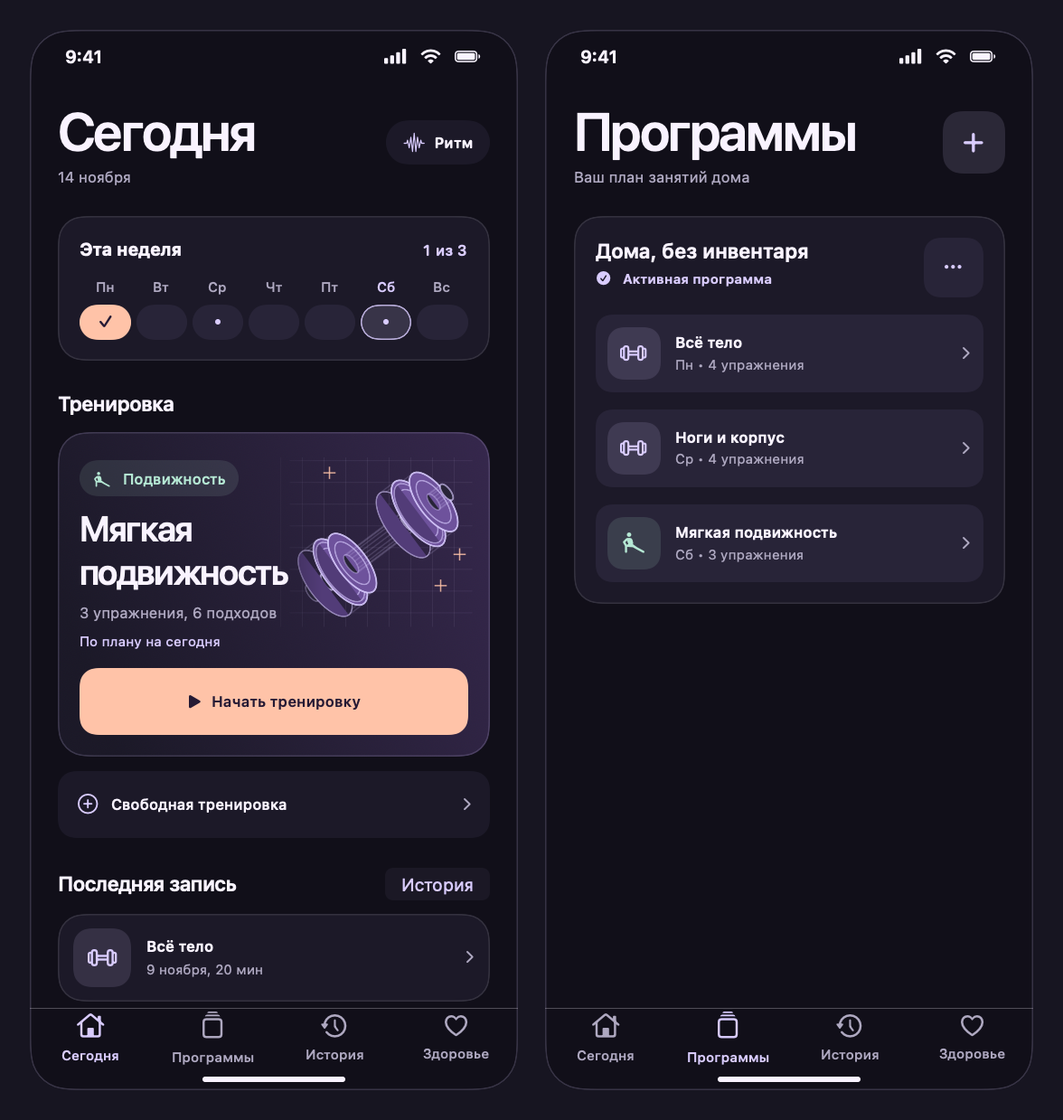
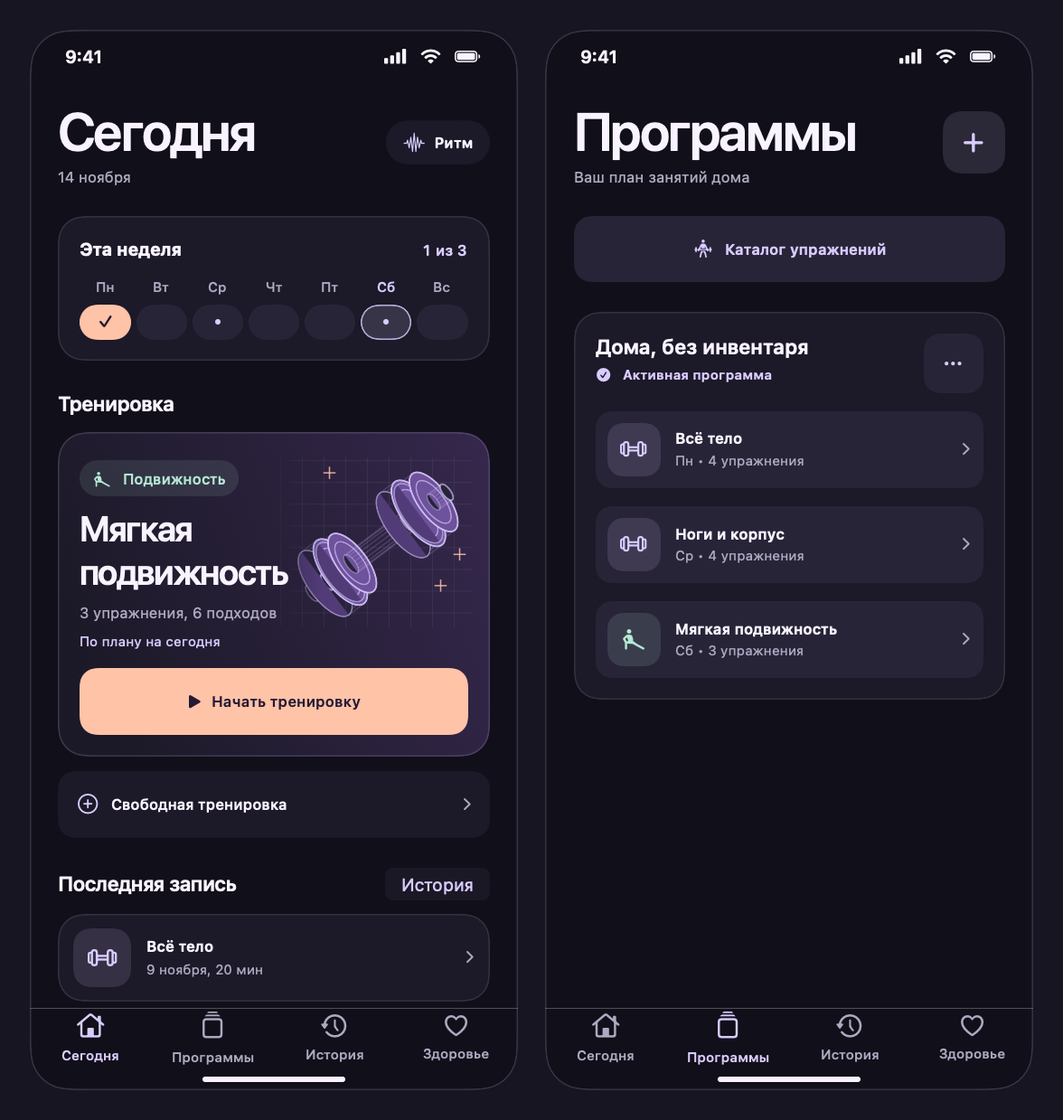
Document personal installation and cover progress and Watch sync regressions

diff --git a/Tests/ProgressTests.swift b/Tests/ProgressTests.swift
@@ -1,0 +1,79 @@
+import Foundation
+import Testing
+@testable import RitmCore
+
+struct ProgressTests {
+    @Test func combinesLegacyAndCatalogExerciseSetsWithoutMixingUnits() throws {
+        let start = Date(timeIntervalSince1970: 1_800_000_000)
+        let legacy = ExercisePlan(name: " ТЯГА  ГАНТЕЛЕЙ ", sets: 2, target: 10, weight: 6)
+        let catalog = ExercisePlan(name: "Тяга в наклоне", sets: 1, target: 8, weight: 10, catalogID: "dumbbell-row")
+        let timed = ExercisePlan(name: catalog.name, unit: .seconds, sets: 1, target: 35, catalogID: catalog.catalogID)
+        var first = ActiveWorkout(routine: Routine(name: "Силовая", exercises: [legacy]), now: start)
+        first.exercises[0].sets[0].complete = true
+        var second = ActiveWorkout(routine: Routine(name: "Силовая", exercises: [catalog, timed]), now: start.addingTimeInterval(3600))
+        second.exercises[0].sets[0].complete = true
+        second.exercises[1].sets[0].complete = true
+        let records = [WorkoutRecord(second, endedAt: second.startedAt.addingTimeInterval(90)), WorkoutRecord(first, endedAt: start.addingTimeInterval(60))]
+
+        let result = ExerciseProgress.summarize(records)
+        let reps = try #require(result.first { $0.unit == .repetitions })
+        let seconds = try #require(result.first { $0.unit == .seconds })
+        #expect(result.count == 2)
+        #expect(reps.points.map(\.total) == [10, 8])
+        #expect(reps.points.map(\.volume) == [60, 80])
+        #expect(reps.bestWeight == 10)
+        #expect(seconds.points.map(\.total) == [35])
+        #expect(seconds.points.map(\.volume) == [0])
+    }
+
+    @Test @MainActor func keepsWatchMarksIdempotentAndClipsDelayedPulseToTheSession() throws {
+        let directory = FileManager.default.temporaryDirectory.appending(path: "RitmWatchTests-\(UUID())")
+        defer { try? FileManager.default.removeItem(at: directory) }
+        let file = directory.appending(path: "journal.json")
+        let store = JournalStore(url: file)
+        let now = Date.now.addingTimeInterval(-120)
+        let routine = try #require(store.journal.activeProgram?.routines.first)
+        #expect(store.change { $0.healthEnabled = true })
+        #expect(store.start(routine, at: now))
+        let snapshot = try #require(store.watchSnapshot)
+        let next = try #require(snapshot.next)
+        let mark = WatchEvent.mark(workout: snapshot.workoutID, exercise: next.exerciseID, set: next.setID)
+        #expect(store.receiveWatch(mark))
+        #expect(store.receiveWatch(mark))
+        #expect(store.journal.activeWorkout?.marked == 1)
+        let finished = try #require(store.finish(at: now.addingTimeInterval(60)))
+        #expect(!store.receiveWatch(mark))
+        let valid = PulsePoint(date: now.addingTimeInterval(15), bpm: 110)
+        let late = PulsePoint(date: now.addingTimeInterval(90), bpm: 170)
+        #expect(store.receiveWatch(.pulse(workout: finished.id, points: [valid, valid, late])))
+        #expect(try JournalFile.load(file).records.first?.pulse == [valid])
+    }
+
+    @Test @MainActor func importsStandaloneWatchWorkoutOnceWithoutRequestingAnotherHealthExport() throws {
+        let directory = FileManager.default.temporaryDirectory.appending(path: "RitmWatchImportTests-\(UUID())")
+        defer { try? FileManager.default.removeItem(at: directory) }
+        let store = JournalStore(url: directory.appending(path: "journal.json"))
+        let start = Date.now.addingTimeInterval(-120)
+        let activity = WatchActivity(id: UUID(), kind: "strength", startedAt: start, endedAt: start.addingTimeInterval(60), pulse: [])
+        #expect(store.receiveWatch(.finished(activity)))
+        #expect(store.receiveWatch(.finished(activity)))
+        #expect(store.journal.records.count == 1)
+        #expect(store.journal.records.first?.fromWatch == true)
+        #expect(store.journal.records.first?.awaitsHealthExport == false)
+    }
+
+    @Test func widgetRollsOverOnMondayAndSkipsACompletedRoutine() throws {
+        var calendar = Calendar(identifier: .gregorian)
+        calendar.timeZone = try #require(TimeZone(identifier: "Europe/Moscow"))
+        let monday = try #require(calendar.date(from: DateComponents(year: 2026, month: 11, day: 16, hour: 9)))
+        let sunday = monday.addingTimeInterval(-12 * 3600)
+        let first = UUID()
+        let second = UUID()
+        let summary = WidgetSnapshot(activeWorkout: nil, completedSets: 0, totalSets: 0,
+            routines: [.init(id: first, title: "Корпус", weekday: 2), .init(id: second, title: "Ноги", weekday: nil)],
+            completions: [.init(routineID: nil, date: sunday), .init(routineID: first, date: monday)], weeklyGoal: 3)
+        #expect(summary.week(at: sunday, calendar: calendar) == [0, 0, 0, 0, 0, 0, 1])
+        #expect(summary.week(at: monday, calendar: calendar) == [1, 0, 0, 0, 0, 0, 0])
+        #expect(summary.suggestion(at: monday, calendar: calendar) == "Ноги")
+    }
+}

diff --git a/Preview/Render.swift b/Preview/Render.swift
@@ -23,17 +23,38 @@ import SwiftUI
                 ProgramsView(store: store, start: { _ in })
             }
         }
-        .padding(22)
-        .background(Color(red: 0.09, green: 0.082, blue: 0.13))
-        .tint(Ink.lilac).foregroundStyle(Ink.primary)
-        .environment(\.colorScheme, .dark)
-        let renderer = ImageRenderer(content: layout)
+        let output = URL(fileURLWithPath: CommandLine.arguments[1])
+        try write(layout, to: output)
+        if CommandLine.arguments.count > 2, let entry = ExerciseCatalog.all.first(where: { $0.id == "dumbbell-row" }) {
+            let values = [89, 94, 107, 118, 120, 112, 108, 126, 131, 120, 111, 106]
+            let points = values.enumerated().map { index, bpm in
+                PulsePoint(date: now.addingTimeInterval(Double(index) * 30), bpm: bpm)
+            }
+            let detail = HStack(spacing: 20) {
+                preview(tab: "Программы") { ExerciseDetailView(entry: entry, select: {}) }
+                preview(tab: "История") {
+                    Page {
+                        PageHeader(title: "Всё тело", caption: "История тренировки") { IconBadge(icon: "dumbbell") }
+                        PulsePanel(points: points)
+                    }
+                }
+            }
+            try write(detail, to: URL(fileURLWithPath: CommandLine.arguments[2]))
+        }
+    }
+
+    @MainActor private static func write<V: View>(_ layout: V, to output: URL) throws {
+        let styled = layout.padding(22)
+            .background(Color(red: 0.09, green: 0.082, blue: 0.13))
+            .tint(Ink.lilac).foregroundStyle(Ink.primary)
+            .environment(\.colorScheme, .dark)
+        let renderer = ImageRenderer(content: styled)
         renderer.scale = 1.5
         guard let image = renderer.nsImage, let tiff = image.tiffRepresentation,
               let bitmap = NSBitmapImageRep(data: tiff), let png = bitmap.representation(using: .png, properties: [:]) else {
             throw CocoaError(.fileWriteUnknown)
         }
-        try png.write(to: URL(fileURLWithPath: CommandLine.arguments[1]))
+        try png.write(to: output)
     }
 
     @MainActor private static func preview<Content: View>(tab: String, @ViewBuilder content: () -> Content) -> some View {

diff --git a/README.md b/README.md
@@ -1,31 +1,35 @@
 # Ритм
 
-«Ритм» — личный журнал домашних тренировок для iPhone (iOS 17 и новее). Интерфейс на русском, аккаунт для работы с журналом не нужен.
+Локальный журнал домашних тренировок на русском для iPhone с iOS 17 и Apple Watch с watchOS 10. Для журнала не требуется отдельный аккаунт.
 
-- **Сегодня:** тренировка из активной программы, быстрый старт свободной тренировки и недельная цель.
-- **Программы:** готовый пример без инвентаря и конструктор своих программ. У тренировки можно выбрать день недели; у упражнения — число подходов, повторы или секунды, вес и паузу отдыха.
-- **Тренировка:** отмечайте подходы и меняйте фактические повторы, время или вес. После подхода запускается таймер отдыха. Если свернуть или закрыть приложение, черновик с отметками останется.
-- **История:** подробно показывает выполненные подходы и заметки, с графиком за последние семь дней.
-- **Здоровье** показывает шаги и активные калории за сегодня. С разрешения «Ритм» автоматически отправляет завершённые тренировки. Если отправка прервалась, «Ритм» попробует снова при следующем открытии. Из истории можно отправить тренировку вручную.
+- **Сегодня** показывает тренировку из активной программы и недельную цель. Можно начать свободную тренировку и добавлять упражнения на ходу.
+- **Программы** содержат редактор занятий, расписание по дням и каталог из 35 упражнений. В каталоге есть поиск, фильтры по мышцам и инвентарю, техника и схема мышц спереди и сзади.
+- **Тренировка** сохраняет подходы, повторы или секунды, рабочий вес и заметки. Таймер отдыха запускается после подхода. Черновик остаётся на устройстве после закрытия приложения.
+- **История → Прогресс** показывает динамику повторов, времени, максимального рабочего веса и объёма по упражнениям. Отдельная вкладка показывает вес тела из Apple «Здоровья» за 30, 90 или 365 дней.
+- **Apple Watch** показывают следующий подход и таймер отдыха в начатой на iPhone тренировке. Можно отметить подход и включить живой пульс на часах. Если начать тренировку прямо с часов, она сохранится в Apple «Здоровье» и появится в журнале iPhone после синхронизации.
+- **Виджеты iPhone** показывают ближайшую или текущую тренировку и недельную цель. Нажатие открывает соответствующий экран «Ритма».
 
-Программы, черновик и история лежат в локальном файле в каталоге приложения. Он исключён из резервной копии iOS; при удалении приложения записи «Ритма» будут потеряны. Данные Apple «Здоровья» приложение не копирует в журнал, а показывает из HealthKit по запросу. Отправленные в «Здоровье» тренировки можно удалить там отдельно.
+![Каталог мышц и график пульса на демонстрационных данных](Preview/Каталог%20и%20пульс.png)
 
-## Как установить на свой iPhone
+## Локальные данные и Apple «Здоровье»
 
-1. Установите [Xcode](https://developer.apple.com/xcode/) и поддержку платформы iOS. Откройте `Ritm.xcodeproj`.
-2. В **Xcode → Settings → Apple Accounts** добавьте свой Apple Account. Выберите проект **Ritm → TARGETS → Ritm → Signing & Capabilities**, включите **Automatically manage signing** и в **Team** выберите свою команду. Если идентификатор `personal.ritm.workouts` уже занят, задайте свой. После установки оставьте тот же идентификатор, чтобы обновления сохранили журнал.
-3. Подключите iPhone, разблокируйте его и при необходимости включите [режим разработчика](https://developer.apple.com/documentation/xcode/enabling-developer-mode-on-a-device). В верхней панели выберите схему **Ritm**, свой iPhone и нажмите **Run** (`⌘R`). [Инструкция Apple](https://developer.apple.com/documentation/xcode/building-and-running-an-app) подробно показывает подключение и подпись.
-4. Для обмена откройте **Здоровье → Подключить «Здоровье»** в самом «Ритме» и выберите разрешения в системном окне. Поменять их можно в Apple «Здоровье» через профиль → **Конфиденциальность → Приложения → Ритм**. [Инструкция Apple по управлению доступом](https://support.apple.com/en-us/108779).
+Программы и история хранятся на устройстве. Файл журнала исключён из резервной копии iOS. Установка поверх существующей версии с тем же идентификатором и командой сохраняет журнал. Удаление приложения удаляет его локальные записи.
 
-Если при первом запуске iPhone сообщает о недоверенном разработчике, откройте **Настройки → Основные → VPN и управление устройством** и подтвердите доверие своему аккаунту в разделе приложений разработчика. Следуйте подсказкам iPhone, если он предложит перезагрузку.
+Интеграция опциональна. iPhone читает шаги, активную энергию, вес тела и пульс. Замеры пульса за время отмеченной тренировки сохраняются вместе с ней. «Ритм» показывает график, среднее, минимум и максимум по доступным замерам. Для живого пульса начните занятие на iPhone, затем откройте «Ритм» на часах и нажмите «Измерять пульс». После отключения обмена приложение перестаёт читать и отправлять данные. Уже сохранённые тренировки можно удалить отдельно в «Ритме» и Apple «Здоровье».
 
-Профиль подписи бесплатной **Personal Team** действует семь дней. Чтобы продлить работу приложения, снова подключите iPhone и нажмите **Run** в Xcode. Устанавливайте обновление поверх текущей версии с тем же идентификатором и командой, чтобы сохранить журнал. [Условия Personal Team](https://developer.apple.com/help/account/basics/about-your-developer-account).
+Виджеты получают из общего локального контейнера только расписание и счётчики тренировок и подходов. Вес тела и пульс в контейнер виджетов не записываются.
 
-Если Xcode не выдаёт профиль с HealthKit для вашей команды, схема **Ritm Offline** запускает тот же журнал без обращения к HealthKit. Собирайте обе схемы с одинаковым идентификатором и командой, чтобы сохранить локальные данные при обновлении.
+## Личная установка
+
+1. Установите [Xcode](https://developer.apple.com/xcode/) с поддержкой iOS и watchOS и откройте `Ritm.xcodeproj`.
+2. Добавьте Apple Account в **Xcode → Settings → Apple Accounts**. Включите автоматическую подпись и выберите одну команду для целей **Ritm**, **RitmWatch** и **RitmWidgets**. Можно указать `DEVELOPMENT_TEAM` в локальном файле `Config/Local.xcconfig`, который исключён из Git. Если нужен свой идентификатор, задайте там `RITM_BUNDLE_ID`: идентификаторы часов, виджета и общей группы строятся на его основе.
+3. Подключите разблокированный iPhone, включите [режим разработчика](https://developer.apple.com/documentation/xcode/enabling-developer-mode-on-a-device) и запустите схему **Ritm**. Установите приложение для часов через приложение Watch на iPhone или запустите схему **RitmWatch** из Xcode на сопряжённых часах. При запросе iPhone подтвердите доверие собственной подписи в **Настройки → Основные → VPN и управление устройством**.
+4. Откройте в «Ритме» **Здоровье → Подключить «Здоровье»**. После обновления используйте **Разрешить вес и пульс**. Позже разрешения можно изменить в Apple «Здоровье» через профиль и список приложений. [Управление доступом](https://support.apple.com/en-us/108779)
+
+Профиль бесплатной **Personal Team** действует семь дней. Для продления снова запустите **Ritm** через Xcode поверх установленного приложения. [Условия Personal Team](https://developer.apple.com/help/account/basics/about-your-developer-account)
 
 ## Проверка
 
-- `./Tests/run.sh` — сценарии сохранения и восстановления черновика, записи завершённой тренировки, смены программы и границы недели.
-- `./Preview/render.sh` — превью двух экранов в `Preview/Ритм.png`. Разметка отрисована SwiftUI на Mac; у превью свои рамки и демонстрационная запись, которой нет при первом запуске.
-
-На iPhone проверьте реальную тренировку. Создайте программу, отметьте подход, закройте и снова откройте «Ритм». Подход должен остаться в черновике. Подключите «Здоровье» и проверьте, что в «Ритме» видны доступные шаги и активные калории за день. Завершите тренировку и проверьте, что она появилась в обоих приложениях ровно один раз.
+- `./Tests/run.sh` запускает проверки журнала, статистики, обработки повторных событий с часов, границ тренировок и недельного счётчика виджета.
+- `./Preview/render.sh` создаёт превью экранов из SwiftUI на демонстрационных данных.
+- На iPhone можно проверить собственный вес в **История → Прогресс → Вес тела**. Чтобы проверить часы, начните тренировку с упражнениями на iPhone, отметьте следующий подход с часов и включите «Измерять пульс». Завершите тренировку на iPhone и откройте её в истории. Отдельно запишите тренировку на часах и проверьте появление одной записи в обеих историях.
